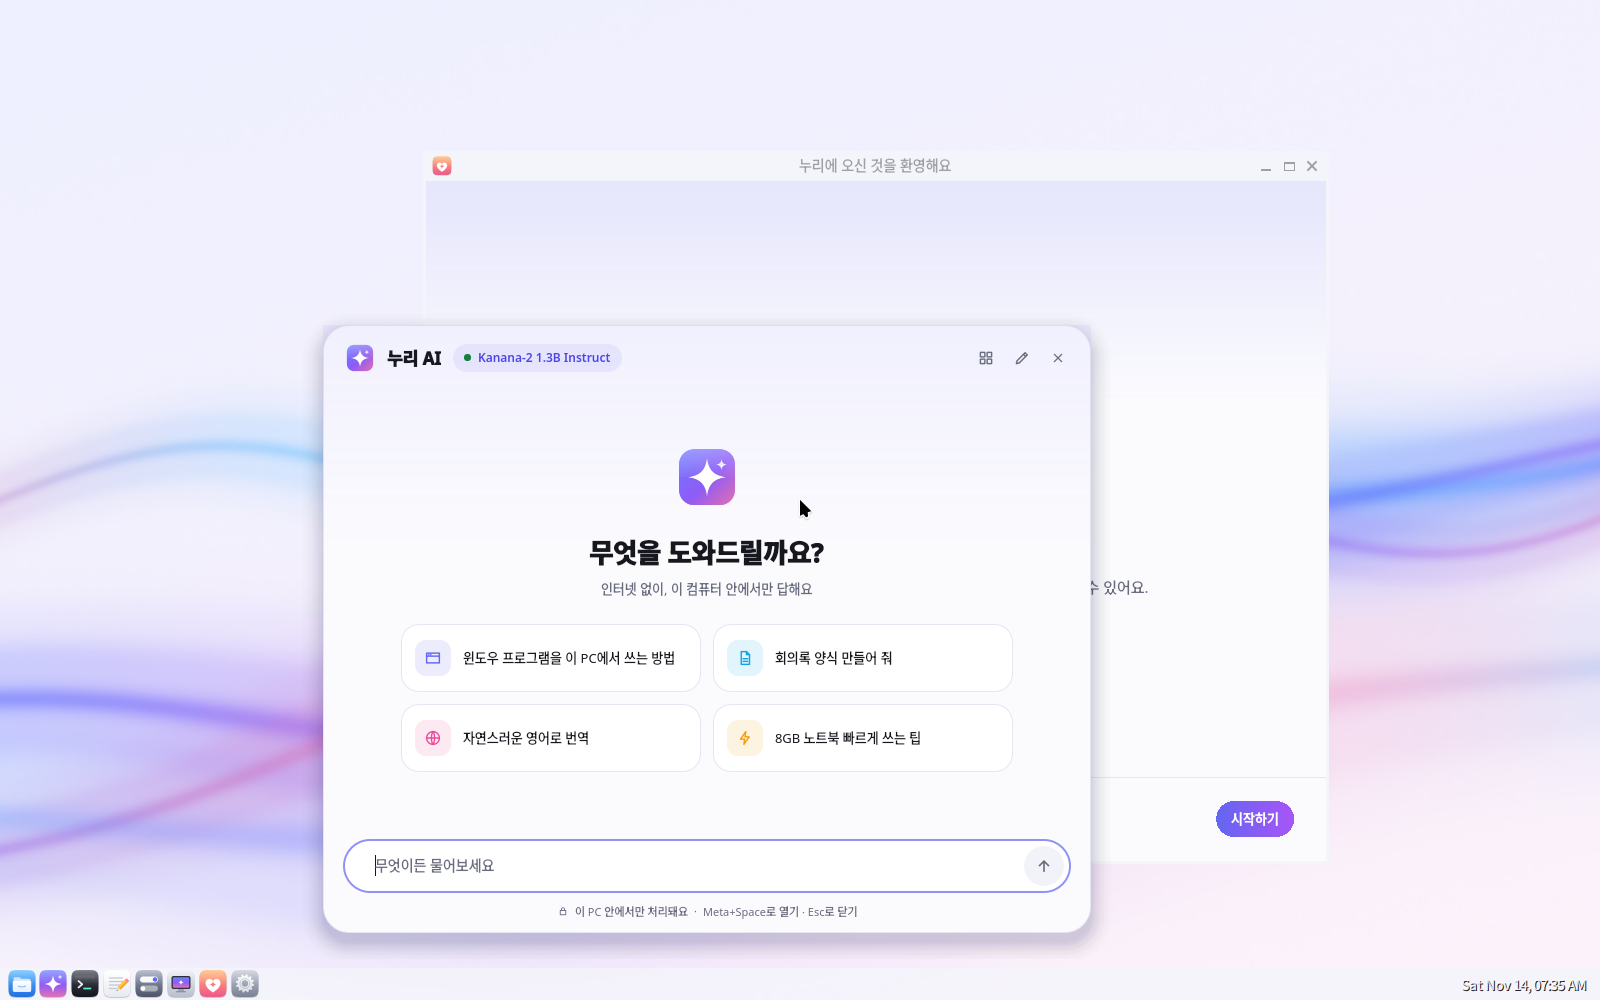
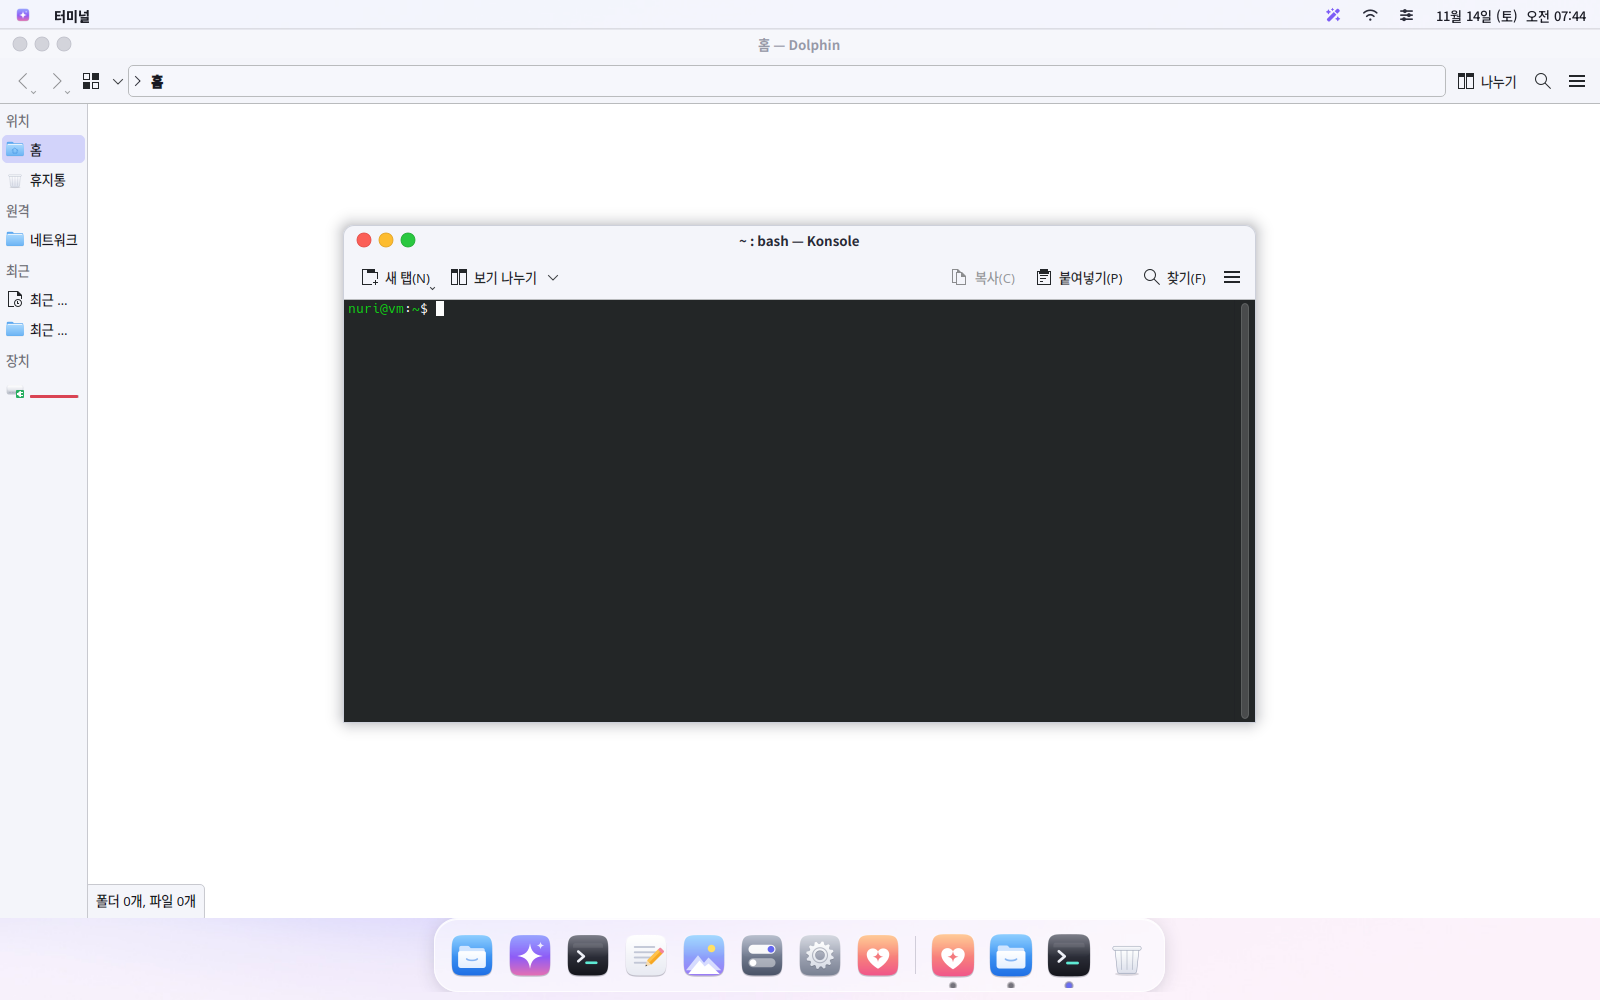
Web remote: macOS-like session on labwc with a menu bar and a floating dock
Weston's desktop shell only had a flat bottom panel. With labwc (wlroots,
pixman renderer) the session now gets:
- traffic-light title bar buttons on the left, rounded corners and soft
  shadows (labwc theme tools/web-remote/theme, same colours as the KWin
  decoration)
- a translucent top menu bar (waybar): logo, the focused app's name,
  AI / Wi-Fi / Control Center buttons, Korean date and clock
- a floating dock: launchers that lift on hover, a divider, running apps
  with a dot (the focused one in the accent colour), trash
- a desktop right-click menu, Mac-like shortcuts (Meta+Space AI, Meta+Q
  close, Meta+E files, Meta+C Control Center)
Weston stays as the fallback when labwc is not installed.

Claude-Session: https://claude.ai/code/session_01EDZh8PnYSk91ZfHtKaYmRu

diff --git a/distro/tools/web-remote/waybar/style.css b/distro/tools/web-remote/waybar/style.css
@@ -1,0 +1,63 @@
+/* Nuri web remote bars. GTK CSS: no blur, so the glass is a translucent fill with a light rim. */
+* {
+  font-family: "Noto Sans CJK KR", "Font Awesome 7 Free", sans-serif;
+  font-size: 13px;
+  min-height: 0;
+  border: none;
+  border-radius: 0;
+}
+window#waybar { background: transparent; }
+
+/* ---------------------------------------------------------- menu bar */
+window#waybar.menubar {
+  background: rgba(246, 247, 252, 0.72);
+  border-bottom: 1px solid rgba(0, 0, 0, 0.06);
+  color: #1c1d26;
+}
+.menubar #image.logo { padding: 0 10px 0 14px; }
+.menubar #taskbar button {
+  /* only the focused app's name shows, like the bold app menu on a Mac: the focused
+     button comes first (active-first), the others shrink to nothing after it */
+  padding: 0; margin: 0; min-width: 0; font-size: 1px; color: transparent;
+  background: none; box-shadow: none;
+}
+.menubar #taskbar button.active { font-size: 13px; font-weight: 800; padding: 0 8px; color: #1c1d26; }
+.menubar #custom-ai, .menubar #custom-wifi, .menubar #custom-control {
+  font-family: "Font Awesome 7 Free"; font-weight: 900; font-size: 13px;
+  padding: 0 9px; margin: 4px 0; border-radius: 6px; color: #2b2d3a;
+}
+.menubar #custom-ai { color: #7c5cf6; }
+.menubar #custom-ai:hover, .menubar #custom-wifi:hover, .menubar #custom-control:hover,
+.menubar #clock:hover, .menubar #image.logo:hover { background: rgba(0, 0, 0, 0.07); border-radius: 6px; }
+.menubar #clock { padding: 0 14px 0 10px; font-weight: 500; }
+
+/* ---------------------------------------------------------- dock */
+window#waybar.dock .modules-center {
+  background: rgba(250, 250, 255, 0.55);
+  border: 1px solid rgba(255, 255, 255, 0.75);
+  border-radius: 24px;
+  padding: 5px 8px 3px 8px;
+  box-shadow: 0 3px 9px rgba(20, 22, 50, 0.16), inset 0 1px 0 rgba(255, 255, 255, 0.9);
+}
+.dock #image {
+  padding: 0 4px 6px 4px;
+  margin-top: 6px;
+  transition: margin 160ms ease-out, padding 160ms ease-out;
+}
+.dock #image:hover { margin-top: 0; padding-bottom: 12px; }   /* icons lift on hover */
+.dock #custom-sep {
+  min-width: 1px; margin: 12px 8px 14px 8px; padding: 0;
+  background: rgba(30, 32, 60, 0.18); font-size: 0;
+}
+.dock #taskbar button {
+  padding: 0 4px 6px 4px; margin-top: 6px; background: none; box-shadow: none;
+  /* running dot under every open app */
+  background-image: radial-gradient(circle at 50% 96%, rgba(28, 29, 38, 0.6) 2px, rgba(0, 0, 0, 0) 2.6px);
+  transition: margin 160ms ease-out, padding 160ms ease-out;
+}
+.dock #taskbar button:hover { margin-top: 0; padding-bottom: 12px; background-color: transparent; }
+.dock #taskbar button.active {
+  background-image: radial-gradient(circle at 50% 96%, rgba(99, 102, 241, 0.95) 2.2px, rgba(0, 0, 0, 0) 2.8px);
+}
+tooltip { background: rgba(30, 31, 42, 0.92); border-radius: 8px; border: none; }
+tooltip label { color: #ffffff; padding: 2px 4px; }

diff --git a/distro/README.md b/distro/README.md
@@ -61,7 +61,7 @@ Fedora Kinoite(atomic KDE)를 기반으로 하고, OS 전체를 컨테이너 이
 | **누리 시작 안내**(첫 로그인): 인사 → AI 언어·추천 모델 → 밝게/어둡게·강조색 → 창 버튼 위치·클릭 방식 → Windows 앱 → 한글 입력 → 개인정보·업데이트 → 단축키. 고르는 즉시 적용. Fedora 환영 창은 제거 | 8개 화면 렌더링·설정 명령 테스트, 실기 미검증 |
 | **제어 센터**: Wi-Fi, 블루투스, 근처 공유(LocalSend), 어둡게, 방해 금지, 야간 모드, 전원 모드(절전·균형·성능), 밝기·소리 슬라이더, AI·캡처·잠금·설정 바로가기, CPU·메모리·배터리/AI 모델 실시간 표시 | OS 컨테이너 안에서 실행 확인, 각 설정 명령은 테스트(실기 미검증) |
 | **이 컴퓨터에 관하여**: OS 버전, 프로세서, 메모리, 그래픽, AI 모델, 저장 공간 막대 | OS 컨테이너 안에서 실행 확인 |
-| **웹 원격 조종** (`tools/web-remote.sh`): 브라우저(noVNC)로 OS 컨테이너의 앱을 조종 | 동작 확인 (Plasma 셸 대신 Weston) |
+| **웹 원격 조종** (`tools/web-remote.sh`): 브라우저(noVNC)로 OS 컨테이너의 앱을 조종 | 동작 확인 (Plasma 셸 대신 labwc + 메뉴 막대·독) |
 | **한글 입력** (fcitx5-hangul, 한/영 키 또는 Ctrl+Space) | 설치됨, 실기 미검증 |
 | Wine, winetricks, NTFS/exFAT, SMB | 설치됨 |
 | 첫 부팅 시 Flatpak 앱 설치 (Bottles, Steam, LibreOffice, LocalSend, Firefox) | 작성됨, 실기 미검증 |
@@ -169,13 +169,17 @@ nuri-ai status
 ## 웹 원격 조종
 
 GPU가 없는 서버나 컨테이너에서도 브라우저로 누리 OS의 앱을 써 볼 수 있어요.
-Plasma 셸(KWin)은 GPU가 있어야 켜져서, 이 모드에서는 Weston(소프트웨어 그리기) 위에 누리 앱
+Plasma 셸(KWin)은 GPU가 있어야 켜져서, 이 모드에서는 labwc(소프트웨어 그리기) 위에 누리 앱
 (시작 안내, AI, 제어 센터, 이 컴퓨터에 관하여, 파일, 터미널, 메모장, 사진)을 띄워요.
-상단 바·독·창 테두리 같은 Plasma 테마는 이 모드에서 보이지 않아요.
+`tools/web-remote/`의 설정으로 맥처럼 꾸며져요: 위쪽 메뉴 막대(앞에 있는 앱 이름, AI·Wi-Fi·제어 센터
+버튼, 날짜와 시계), 아래쪽 떠 있는 독(마우스를 올리면 아이콘이 올라오고, 열린 앱 아래 점),
+빨강·노랑·초록 창 버튼과 둥근 모서리·그림자, 바탕화면 오른쪽 클릭 메뉴.
+labwc가 없으면 Weston 기본 화면으로 켜져요(`NURI_REMOTE_SHELL=weston`).
 
 ```bash
 podman run -d --name nuri-remote --network host localhost/nuri:dev sleep infinity
-podman exec nuri-remote dnf5 -y install xorg-x11-server-Xvfb weston x11vnc novnc python3-websockify dbus-daemon
+podman exec nuri-remote dnf5 -y install xorg-x11-server-Xvfb x11vnc novnc python3-websockify dbus-daemon \
+    labwc waybar swaybg wlr-randr
 podman cp tools nuri-remote:/src/
 podman exec -d -e NURI_VNC_PASSWORD='긴-비밀번호' nuri-remote bash /src/tools/web-remote.sh
 # 브라우저: http://127.0.0.1:6080/vnc.html
